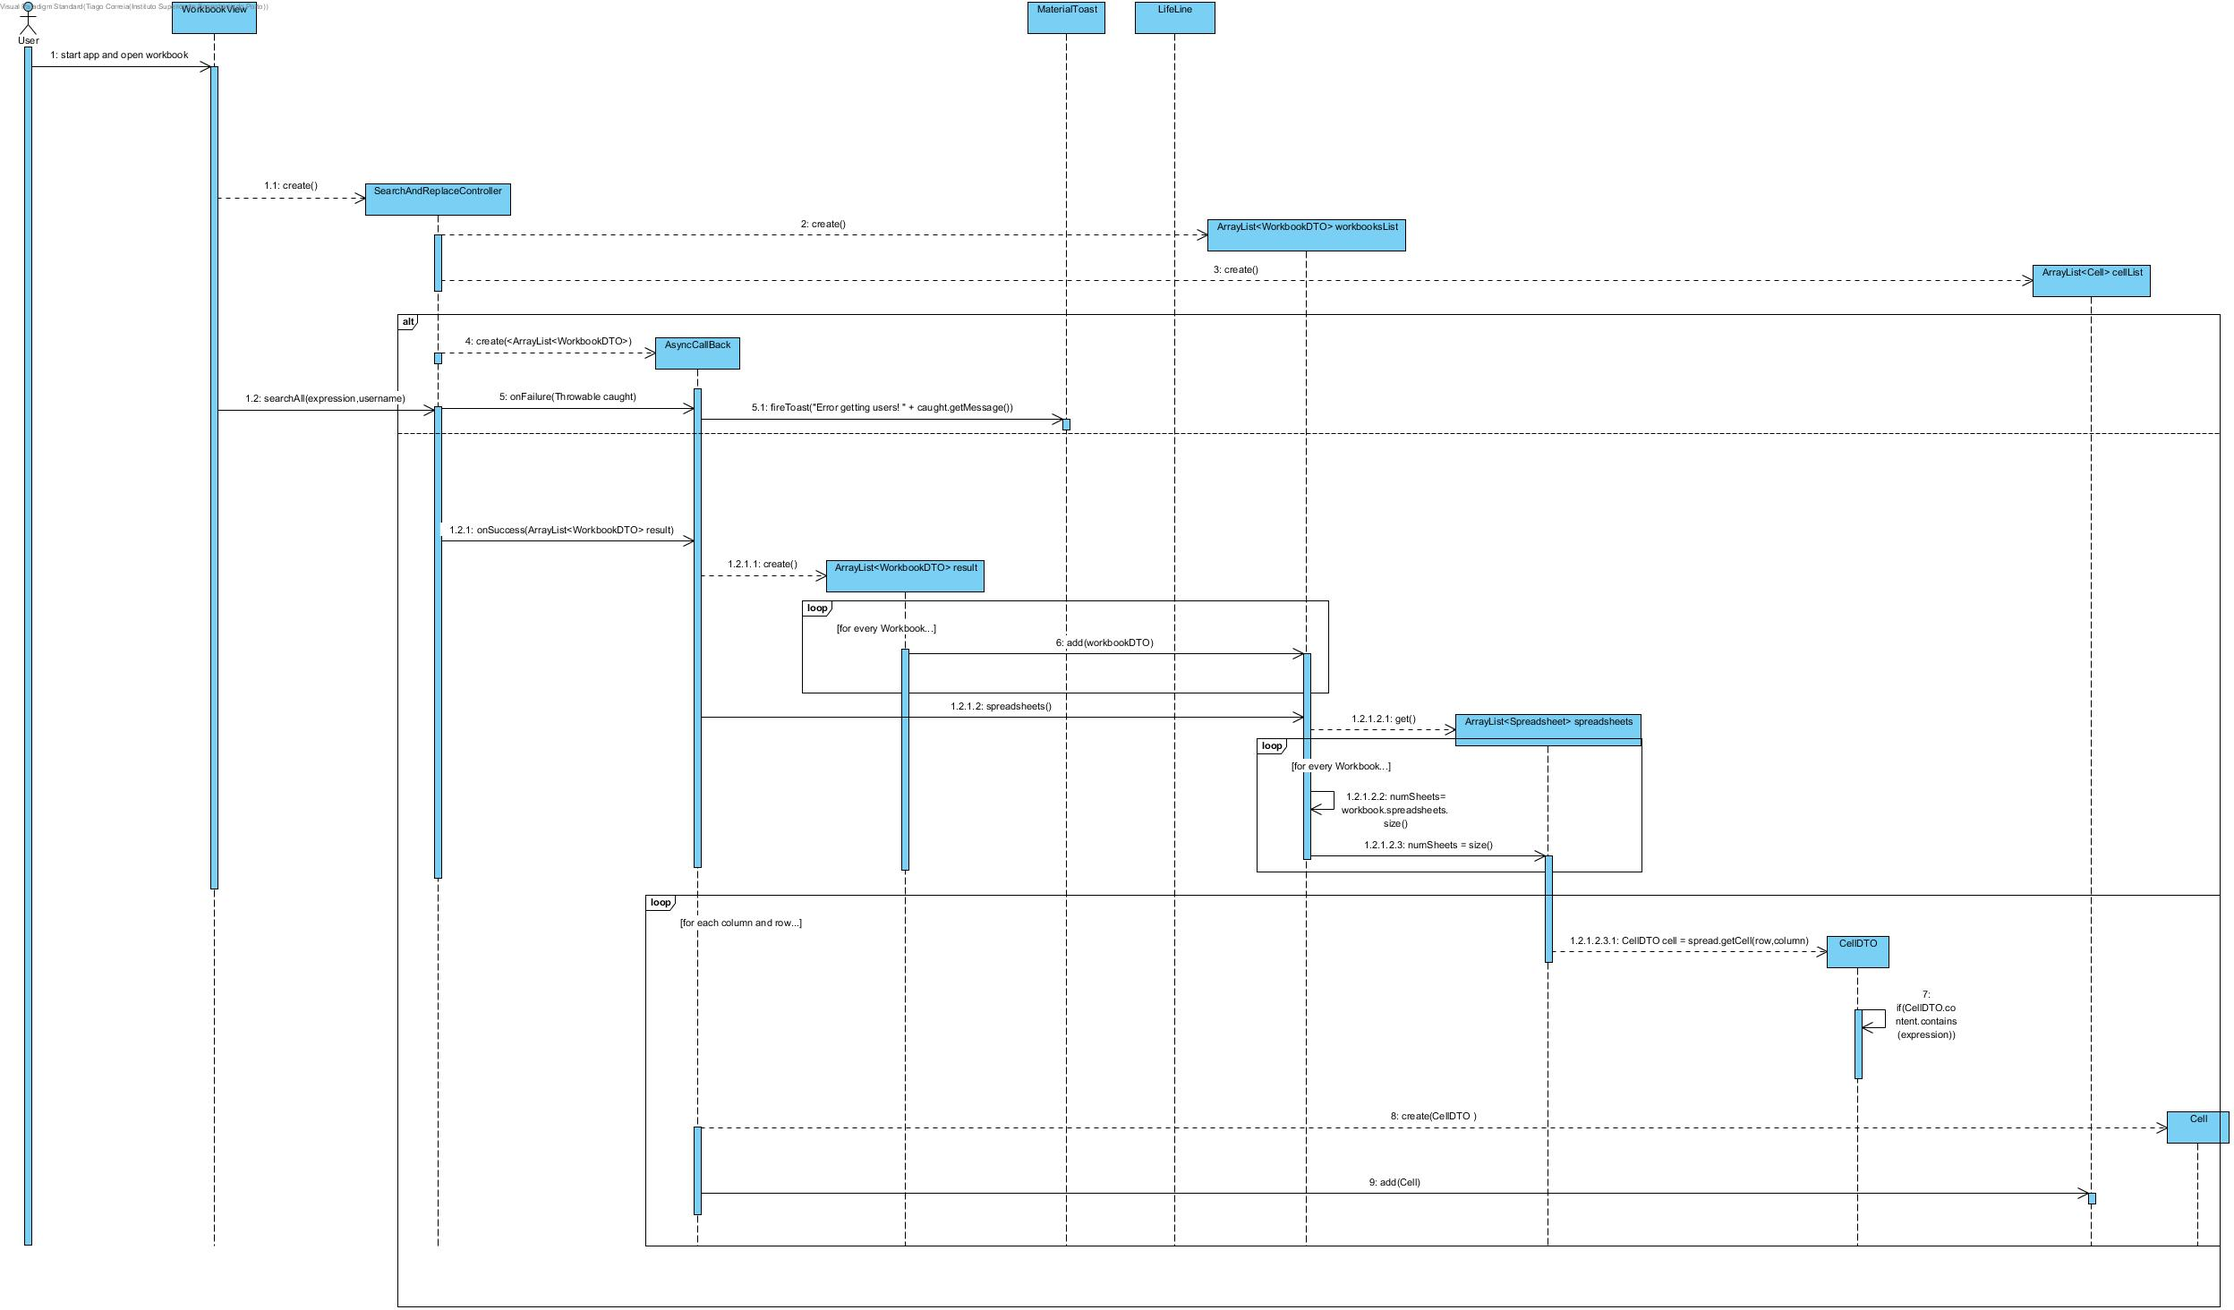
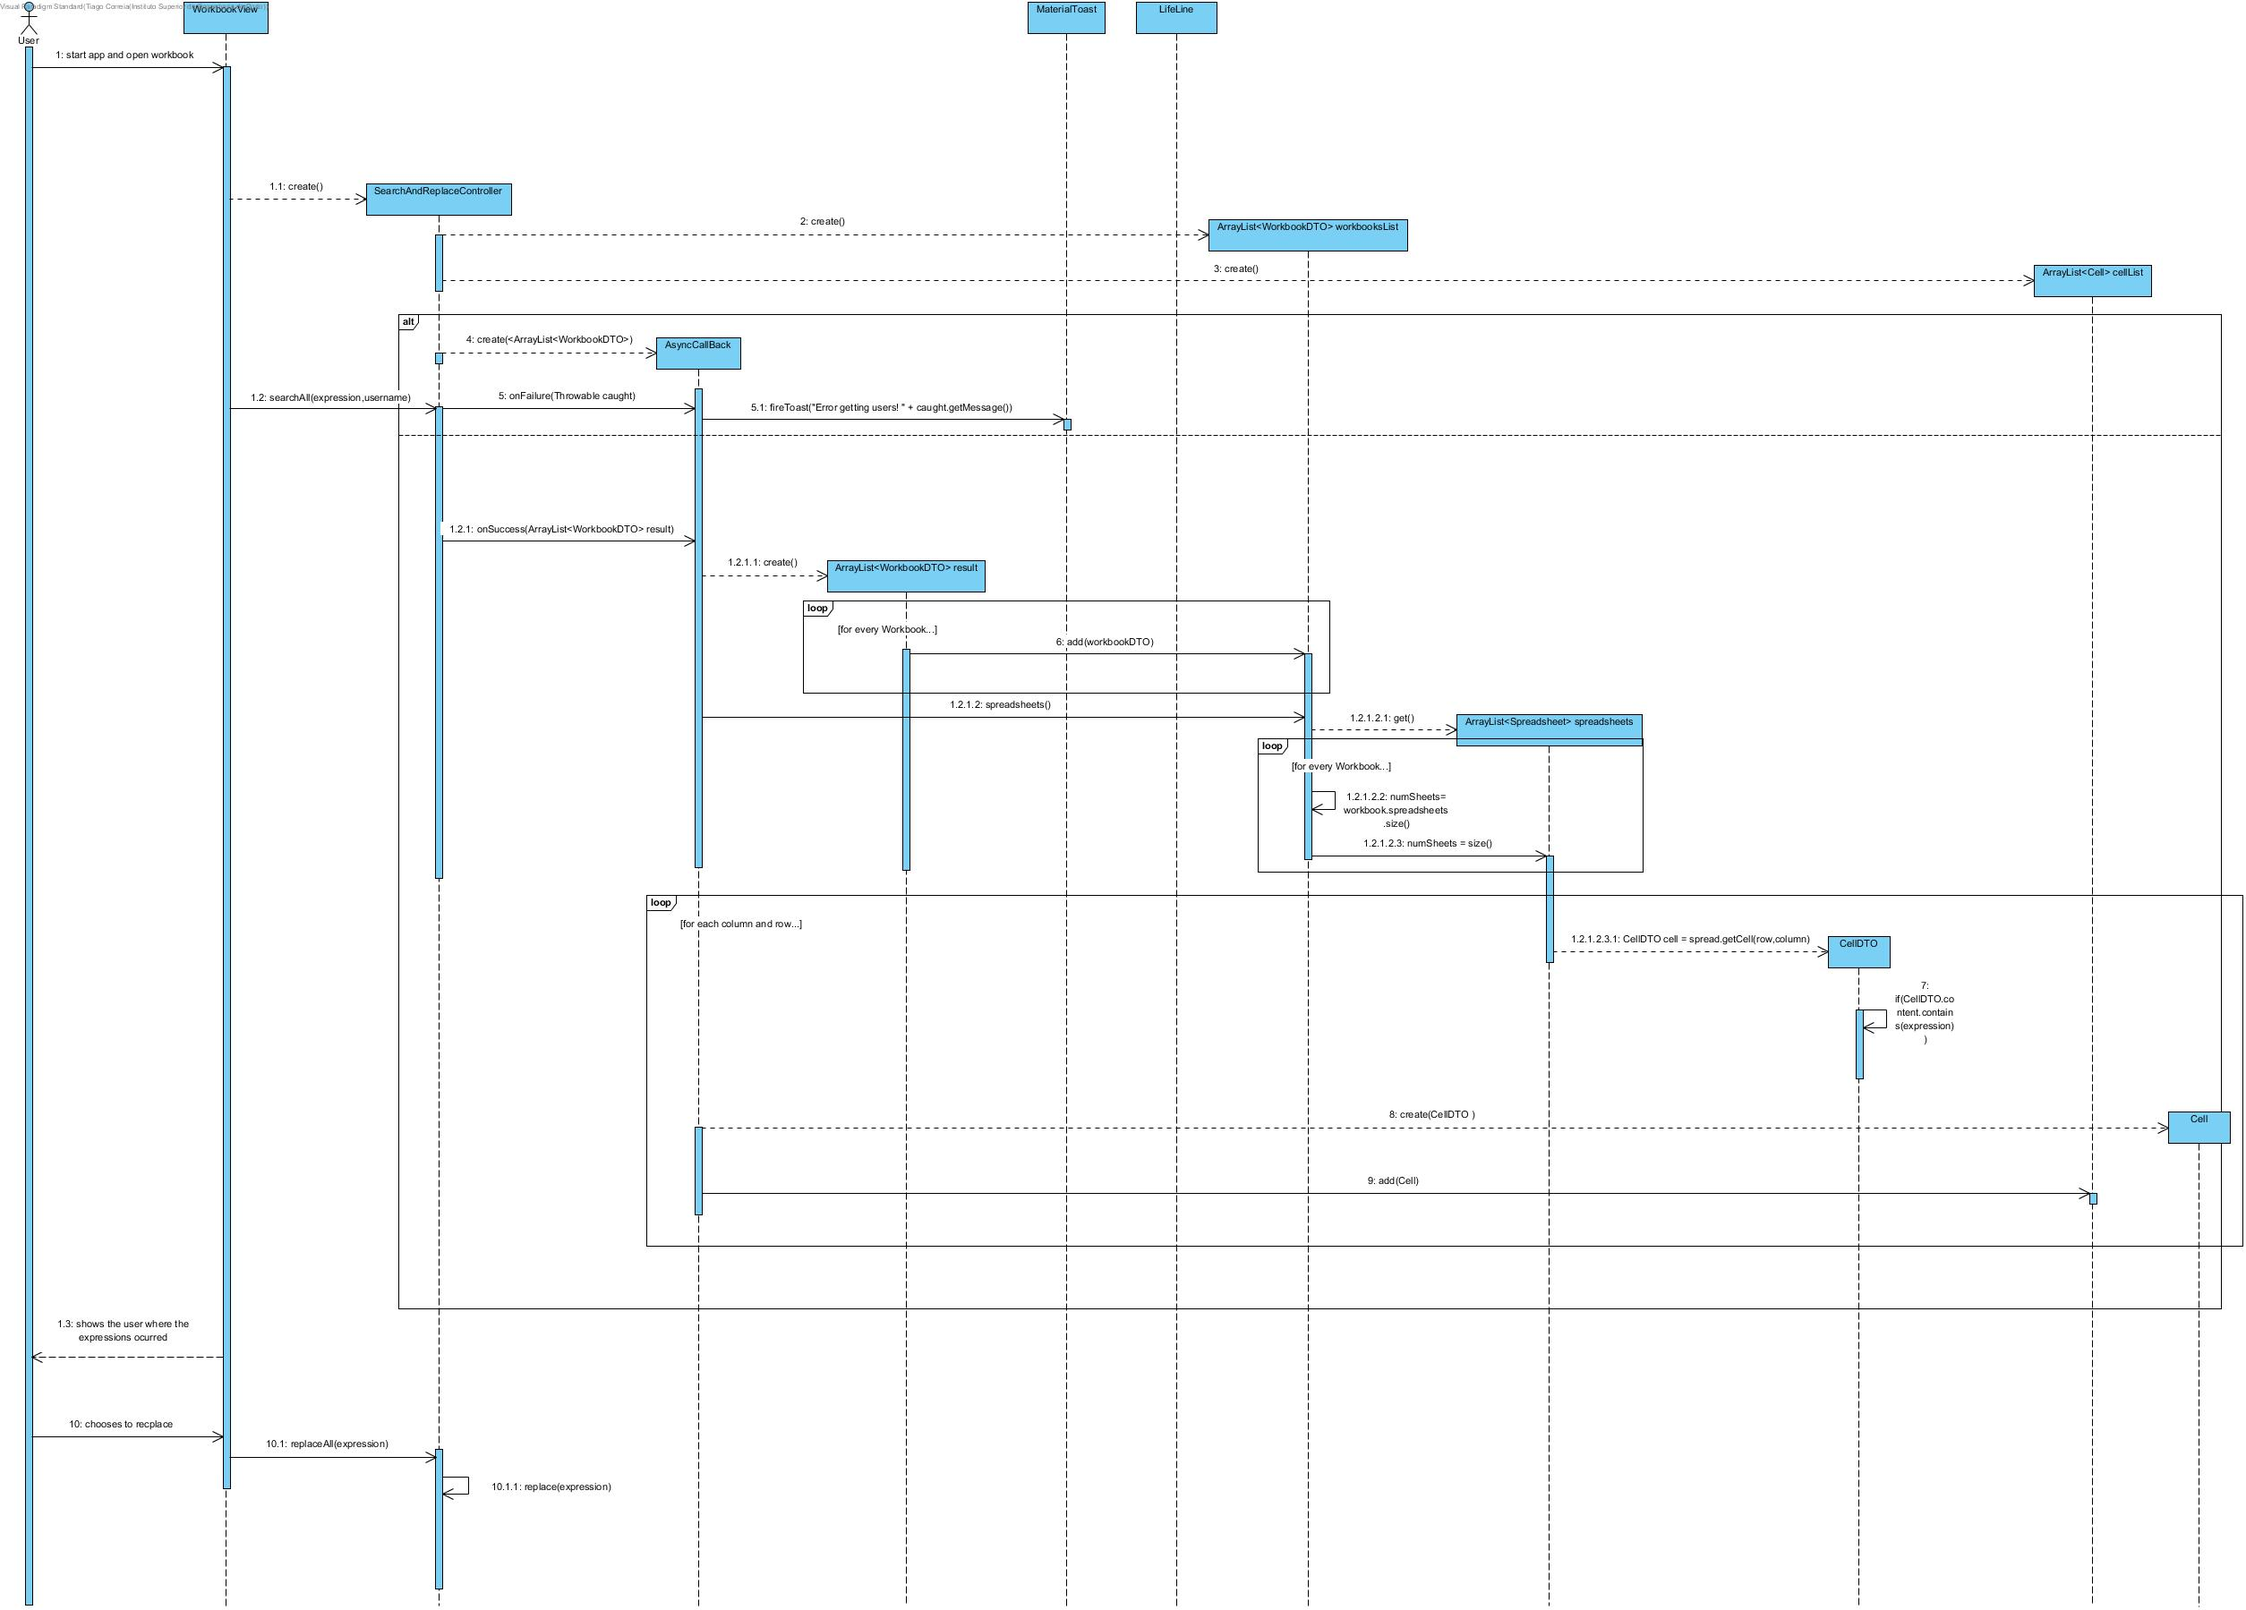
Changes to the documentation for the use case IPC02.3

diff --git a/docs/blue/1140403/sp3/README.md b/docs/blue/1140403/sp3/README.md
@@ -10,9 +10,7 @@
 IPC02.3 - Global Search/Replace
 
 The application should now support "Search" and "Search and Replace" to be 
-applied for all the workbooks of the user (may they be active/open or not). It 
-should be possible to apply the search to workbooks which name matches a specific
-regular expression. 
+applied for all the workbooks of the user (may they be active/open or not). 
 
 In a more brief text:
 
@@ -52,7 +50,10 @@ Use case diagram:
 
 **For US1 and US2**
 
-![Analysis SD](Design-Core 02.3.jpg)
+Replace All:
+![US2](Design-Core 02.3.jpg)
+
+Replace one ocurrance:
 
 # 4 Design
 ## 4.1 TESTS
